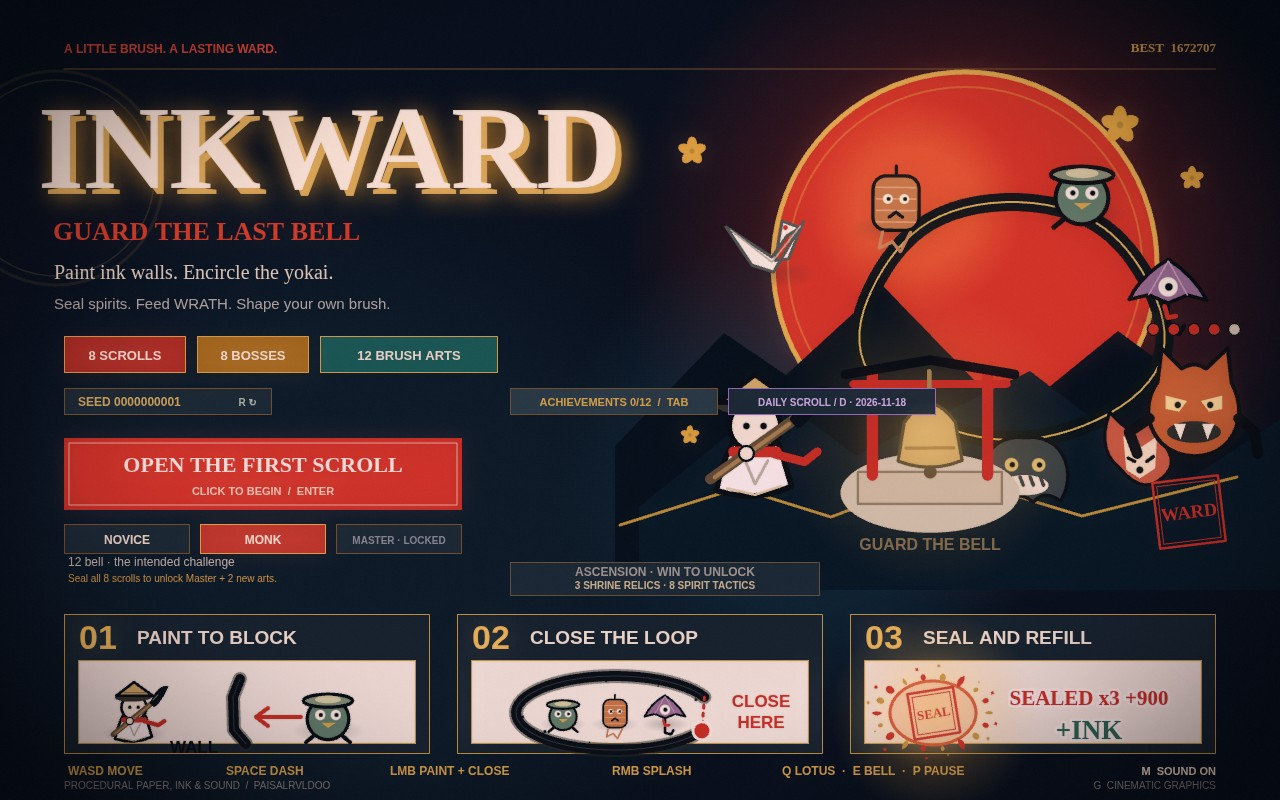
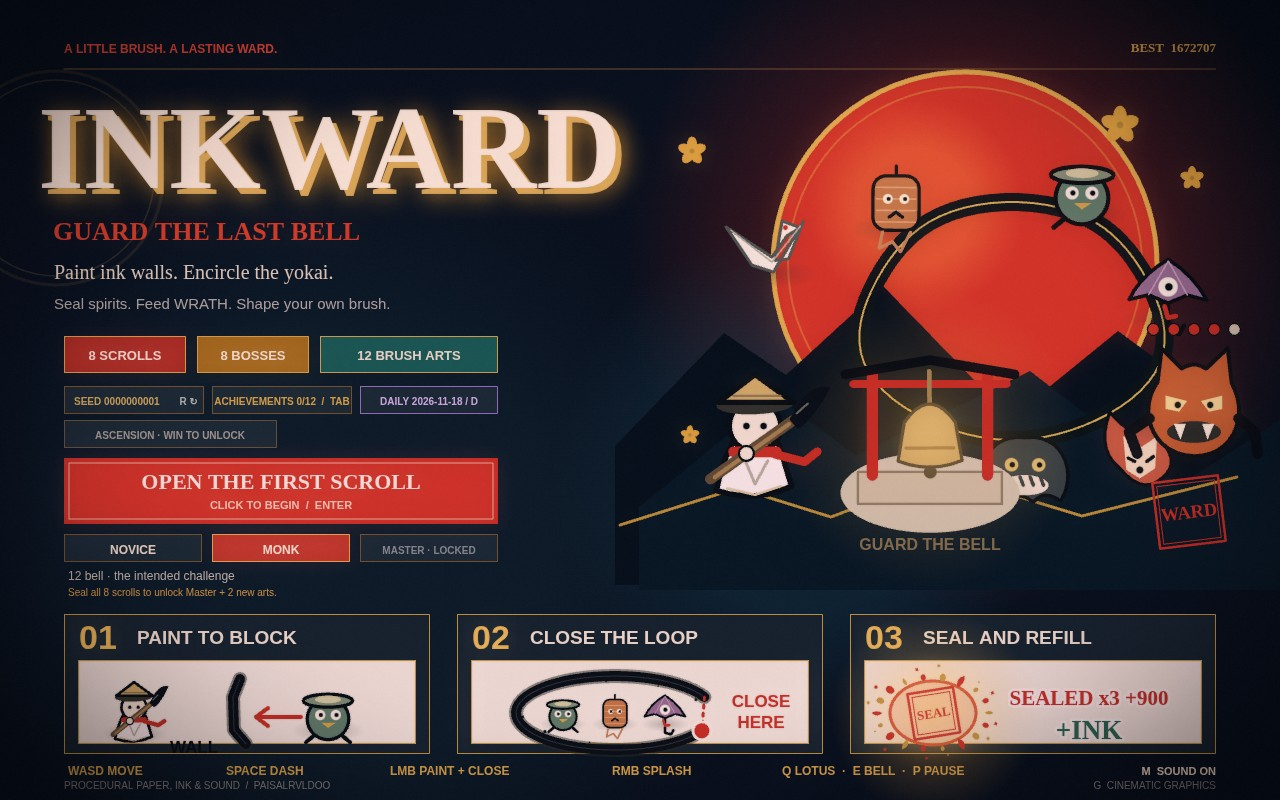
Title: Seed, Achievements, Daily and Ascension in one aligned left-column button grid; check-browser asserts the decluttered cover

Changed region(s): [[0.0312, 0.4688, 0.75, 0.75], [0.4375, 0.6875, 0.5938, 0.75]]

diff --git a/game/src/screens/title.js b/game/src/screens/title.js
@@ -9,13 +9,13 @@ import { drawTutorial } from './tutorial.js';
 import { formatSeed, dailyDateString } from '../rng.js';
 import { ACHIEVEMENTS, drawAchievementIcon, drawAchievementPanel } from '../achievements.js';
 
-export const ASCENSION_BUTTON = { x: 510, y: 562, w: 310, h: 34 };
-export const START_BUTTON = { x: 64, y: 438, w: 398, h: 72 };
-export const DIFFICULTY_RECTS = DIFFICULTIES.map((d, i) => ({ x: 64 + i * 136, y: 524, w: 126, h: 30, id: d.id }));
-export const SKIN_BUTTON = { x: 290, y: 388, w: 208, h: 27 };
-export const SEED_BUTTON = { x: 64, y: 388, w: 208, h: 27 };
-export const ACHIEVEMENTS_BUTTON = { x: 510, y: 388, w: 208, h: 27 };
-export const DAILY_BUTTON = { x: 728, y: 388, w: 208, h: 27 };
+export const ASCENSION_BUTTON = { x: 64, y: 420, w: 213, h: 28 };
+export const START_BUTTON = { x: 64, y: 458, w: 434, h: 66 };
+export const DIFFICULTY_RECTS = DIFFICULTIES.map((d, i) => ({ x: 64 + i * 148, y: 534, w: 138, h: 28, id: d.id }));
+export const SKIN_BUTTON = { x: 285, y: 420, w: 213, h: 28 };
+export const SEED_BUTTON = { x: 64, y: 386, w: 140, h: 28 };
+export const ACHIEVEMENTS_BUTTON = { x: 212, y: 386, w: 140, h: 28 };
+export const DAILY_BUTTON = { x: 360, y: 386, w: 138, h: 28 };
 export function drawTitle(ctx, state, input, audio) {
   ctx.fillStyle = '#0a1220'; ctx.fillRect(0, 0, 1280, 800);
   wash(ctx, 973, 258, 352, '#a2241f', 0.32);
@@ -67,17 +67,17 @@ export function drawTitle(ctx, state, input, audio) {
   ];
   for (const badge of badges) { panel(ctx, badge.x, 336, badge.w, 37, badge.fill, '#e4b550'); text(ctx, badge.label, badge.x + badge.w / 2, 360, 13, '#fff2db', 'bold', false, 'center'); }
   panel(ctx, SEED_BUTTON.x, SEED_BUTTON.y, SEED_BUTTON.w, SEED_BUTTON.h, hitRect(input.pointer, SEED_BUTTON) ? '#2c3f4a' : '#1e2d39', '#7a5a32');
-  text(ctx, 'SEED ' + formatSeed(state.seed), 78, 406, 12, '#deba64', 'bold');
-  text(ctx, 'R \u21bb', 257, 406, 10, '#b9c7bc', 'bold', false, 'right');
+  text(ctx, 'SEED ' + formatSeed(state.seed), 74, 405, 10, '#deba64', 'bold');
+  text(ctx, 'R \u21bb', 198, 405, 10, '#b9c7bc', 'bold', false, 'right');
   if (state.unlocks.includes('moonBell')) {
     panel(ctx, SKIN_BUTTON.x, SKIN_BUTTON.y, SKIN_BUTTON.w, SKIN_BUTTON.h, '#1e2d39', '#7a5a32');
-    text(ctx, 'BELL: ' + state.bell.skin.toUpperCase() + '  /  B', 394, 406, 11, '#c3dceb', 'bold', false, 'center');
+    text(ctx, 'BELL: ' + state.bell.skin.toUpperCase() + '  /  B', 391, 439, 10, '#c3dceb', 'bold', false, 'center');
   }
   const earned = (state.progress.achievements || []).length;
   panel(ctx, ACHIEVEMENTS_BUTTON.x, ACHIEVEMENTS_BUTTON.y, ACHIEVEMENTS_BUTTON.w, ACHIEVEMENTS_BUTTON.h, hitRect(input.pointer, ACHIEVEMENTS_BUTTON) ? '#2c3f4a' : '#1e2d39', '#7a5a32');
-  text(ctx, 'ACHIEVEMENTS ' + earned + '/' + ACHIEVEMENTS.length + '  /  TAB', 614, 406, 11, '#e4b550', 'bold', false, 'center');
+  text(ctx, 'ACHIEVEMENTS ' + earned + '/' + ACHIEVEMENTS.length + '  /  TAB', 282, 405, 10, '#e4b550', 'bold', false, 'center');
   panel(ctx, DAILY_BUTTON.x, DAILY_BUTTON.y, DAILY_BUTTON.w, DAILY_BUTTON.h, state.daily ? '#704e92' : hitRect(input.pointer, DAILY_BUTTON) ? '#2c3f4a' : '#1e2d39', '#a07ad0');
-  text(ctx, 'DAILY SCROLL ' + (state.daily ? 'ON / D' : '/ D') + ' · ' + dailyDateString(), 832, 406, 10, '#dcc2f6', 'bold', false, 'center');
+  text(ctx, 'DAILY ' + dailyDateString() + (state.daily ? ' ON' : '') + ' / D', 429, 405, 10, '#dcc2f6', 'bold', false, 'center');
 
   button(ctx, 'OPEN THE FIRST SCROLL', START_BUTTON, hitRect(input.pointer, START_BUTTON), 'CLICK TO BEGIN  /  ENTER');
   DIFFICULTY_RECTS.forEach((rect, i) => {
@@ -89,10 +89,9 @@ export function drawTitle(ctx, state, input, audio) {
 
   const endless = state.unlocks.includes('ascension');
   panel(ctx, ASCENSION_BUTTON.x, ASCENSION_BUTTON.y, ASCENSION_BUTTON.w, ASCENSION_BUTTON.h, state.expedition === 'ascension' ? '#704e92' : '#1e2d39', endless ? '#d8b5fa' : '#6c5a40');
-  text(ctx, endless ? (state.expedition === 'ascension' ? 'ASCENSION SELECTED / A' : 'ENDLESS ASCENSION / A') : 'ASCENSION \u00b7 WIN TO UNLOCK', 665, ASCENSION_BUTTON.y + 14, 12, endless ? '#f3d5ff' : '#a9a89b', 'bold', false, 'center');
-  text(ctx, endless ? 'Keep your build \u00b7 higher WRATH every circuit' : '3 SHRINE RELICS \u00b7 8 SPIRIT TACTICS', 665, ASCENSION_BUTTON.y + 27, 10, '#d9c99d', 'bold', false, 'center');
-  text(ctx, DIFFICULTIES.find(d => d.id === state.difficulty).hint, 68, 566, 12, '#d0c9b8');
-  if (!state.unlocks.includes('master')) text(ctx, 'Seal all 8 scrolls to unlock Master + 2 new arts.', 68, 582, 10, '#e0a84b');
+  text(ctx, endless ? (state.expedition === 'ascension' ? 'ASCENSION SELECTED / A' : 'ENDLESS ASCENSION / A') : 'ASCENSION \u00b7 WIN TO UNLOCK', 170, ASCENSION_BUTTON.y + 19, 10, endless ? '#f3d5ff' : '#a9a89b', 'bold', false, 'center');
+  text(ctx, DIFFICULTIES.find(d => d.id === state.difficulty).hint, 68, 580, 12, '#d0c9b8');
+  if (!state.unlocks.includes('master')) text(ctx, 'Seal all 8 scrolls to unlock Master + 2 new arts.', 68, 596, 10, '#e0a84b');
   drawTutorial(ctx);
   text(ctx, input.touch ? 'ONE FINGER PAINT' : 'WASD MOVE', 68, 775, 12, '#e4b550', 'bold');
   text(ctx, input.touch ? 'DASH BUTTON' : 'SPACE DASH', 226, 775, 12, '#e4b550', 'bold');
